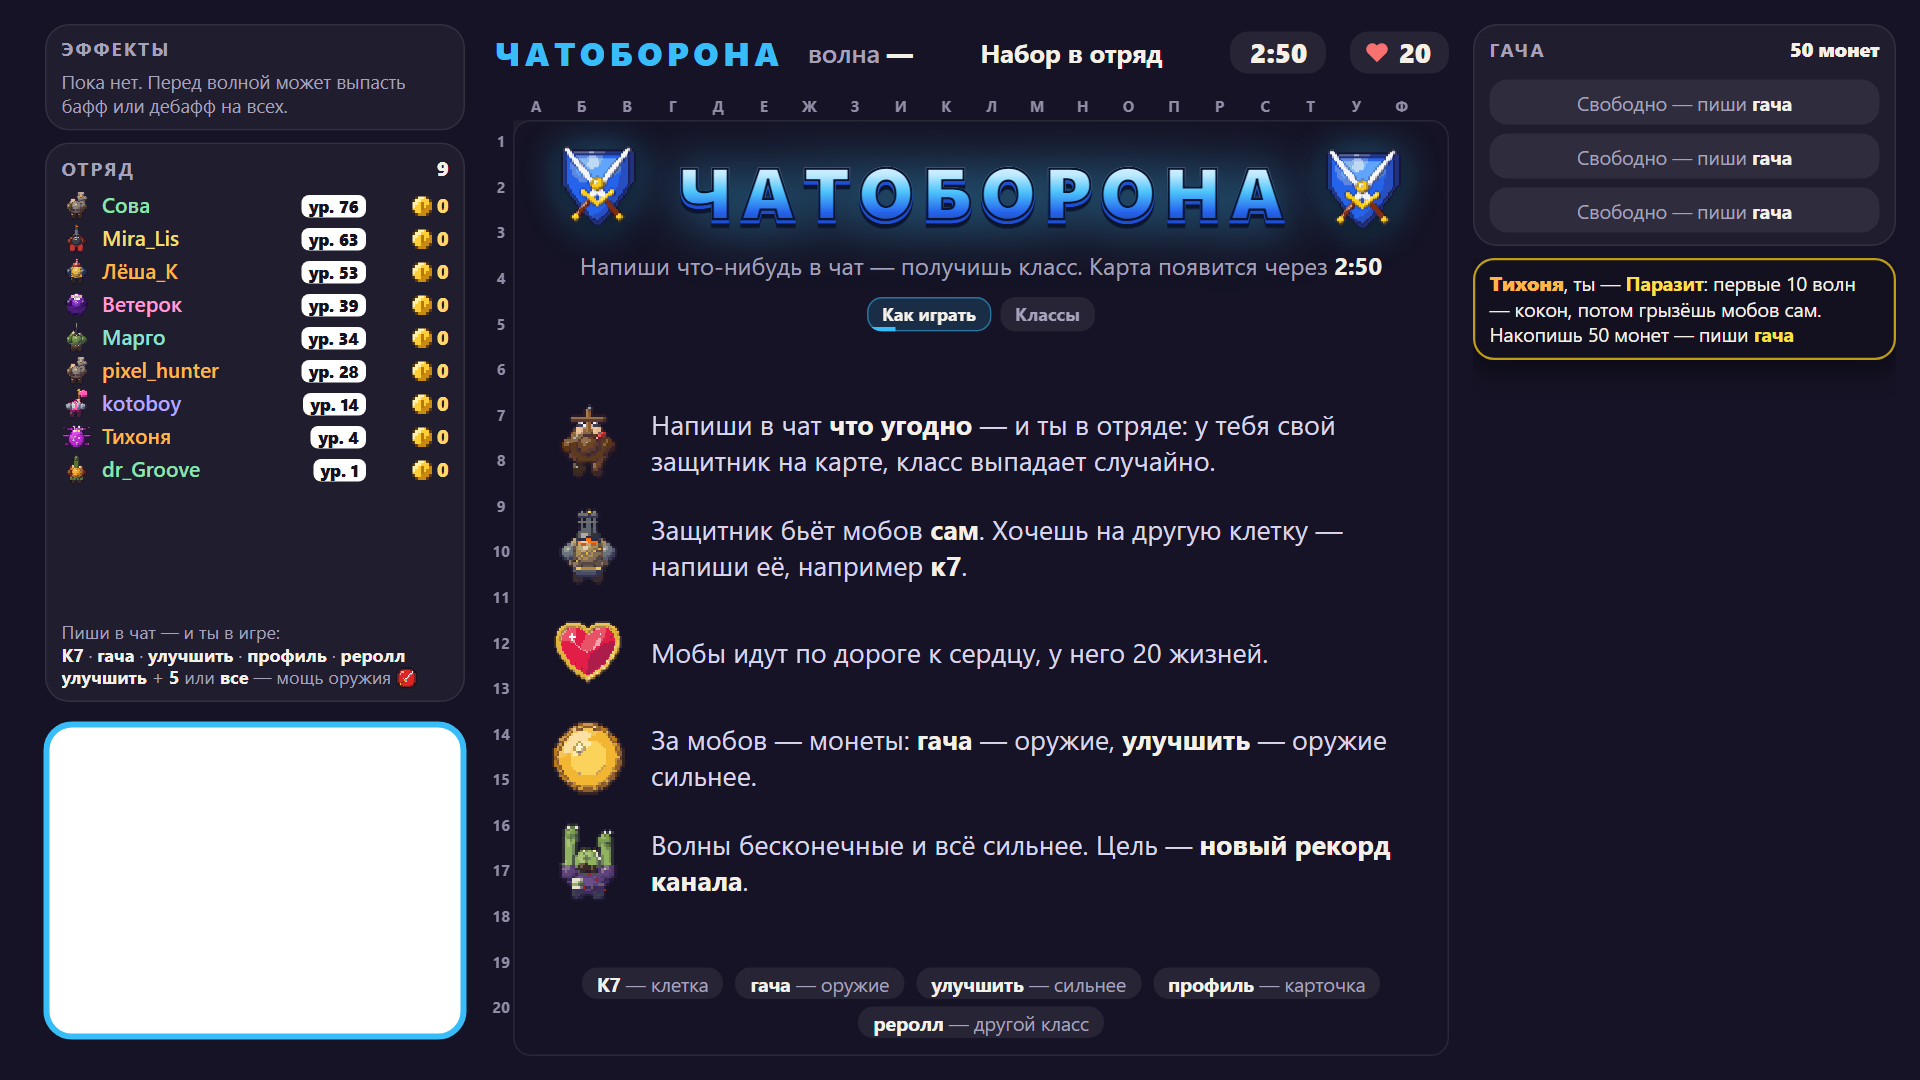
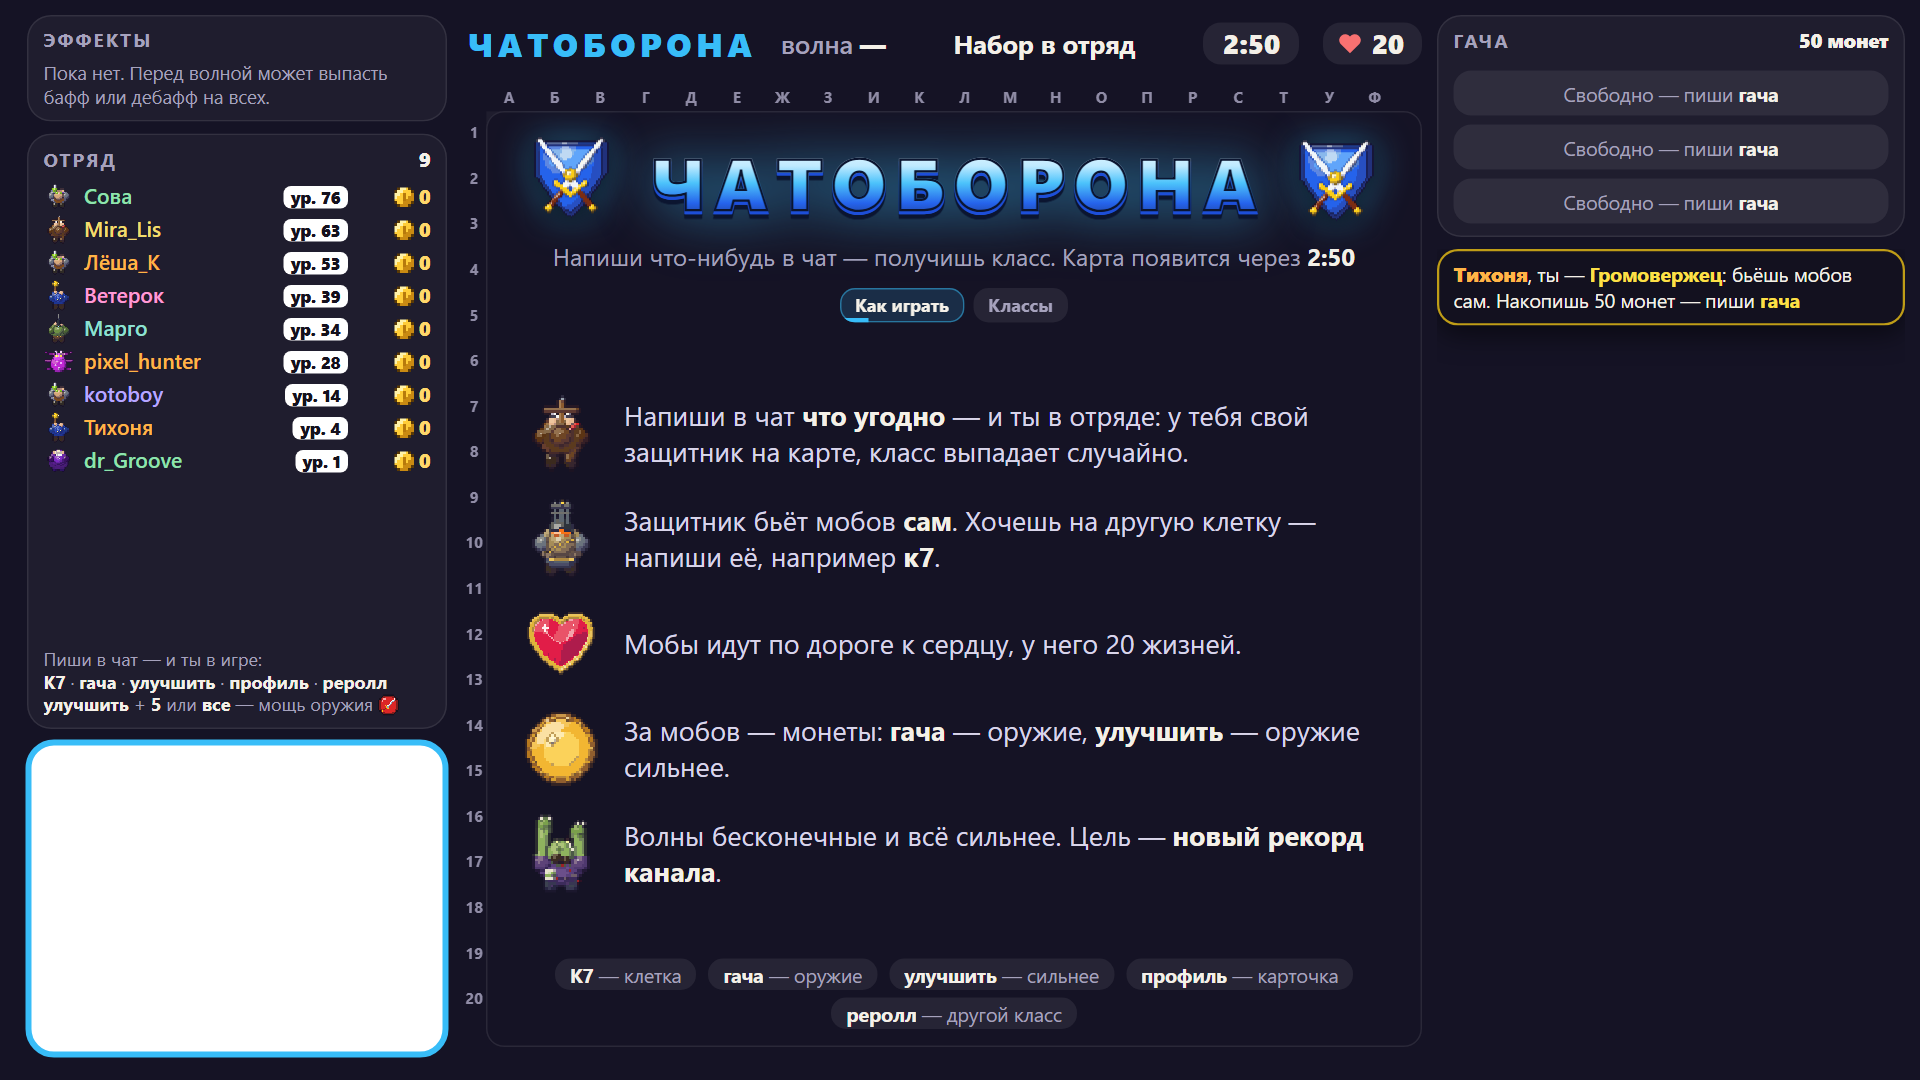
Оверлей: фон до краёв, окошко под вебку у края и одно для всех игр, меньше отступов

diff --git a/tests/js/pages.test.js b/tests/js/pages.test.js
@@ -44,6 +44,25 @@ const element = (w, id) => w.document.getElementById(id);
 const text = (w, id) => element(w, id).textContent;
 const overlay = (query = '') => open('overlay.html' + (query ? '?' + query : ''), (w) => w.chatoborona);
 const join = (game, name) => game.feed(name, 'привет', { login: name.toLowerCase() });
+const camAt = (w) => {
+  const stage = w.document.getElementById('stage').getBoundingClientRect();
+  const cam = w.document.querySelector('.cam').getBoundingClientRect();
+  return [cam.left - stage.left, cam.top - stage.top, cam.width, cam.height].map(Math.round);
+};
+
+test('страницы: окошко под вебку — там же, где в других играх; скрыта панель — углы рамки скруглены', async () => {
+  fresh();
+  const full = await overlay('embed=1');
+  await until(() => camAt(full.contentWindow)[2] > 0, 'окошко на экране');
+  eq(camAt(full.contentWindow), [18, 494, 280, 210]);
+  eq(full.contentWindow.getComputedStyle(element(full.contentWindow, 'card')).borderRadius, '0px');
+  full.remove();
+  const right = await overlay('embed=1&side=0');
+  await until(() => camAt(right.contentWindow)[2] > 0, 'окошко на экране');
+  eq(camAt(right.contentWindow), [18, 494, 280, 210]);
+  eq(right.contentWindow.getComputedStyle(element(right.contentWindow, 'card')).borderRadius, '30px');
+  right.remove();
+});
 
 test('страницы: пример в рамке — середина волны, гача, отряд и эффекты слева, чата нет', async () => {
   fresh();

diff --git a/site/css/overlay.css b/site/css/overlay.css
@@ -32,14 +32,14 @@ body {
 }
 
 .card {
-  position: absolute; inset: 0; z-index: 0; padding: 16px 16px 16px 30px;
-  display: grid; gap: 14px 16px;
-  grid-template: "left main side" minmax(0, 1fr) "cam main side" 222px / 280px 640px minmax(0, 1fr);
+  position: absolute; inset: 0; z-index: 0; padding: 10px 10px 16px 18px;
+  display: grid; gap: 8px 10px;
+  grid-template: "left main side" minmax(0, 1fr) "cam main side" 210px / 280px 640px minmax(0, 1fr);
   overflow: hidden;
 }
 
 .cam {
-  grid-area: cam; position: relative; z-index: -1; margin-bottom: 12px; border-radius: 18px;
+  grid-area: cam; position: relative; z-index: -1; border-radius: 18px;
   box-shadow: 0 0 0 2000px var(--card);
 }
 .cam::after {
@@ -52,12 +52,13 @@ body {
 
 .nochat .cam, .nochat .left { display: none; }
 .nochat .card {
-  left: 310px; padding-left: 16px; grid-template: "main side" minmax(0, 1fr) / 640px minmax(0, 1fr);
+  left: 298px; padding-left: 10px; grid-template: "main side" minmax(0, 1fr) / 640px minmax(0, 1fr);
 }
 
 .noside .side { display: none; }
-.noside .card { right: 298px; grid-template: "left main" minmax(0, 1fr) "cam main" 222px / 280px 640px; }
+.noside .card { right: 322px; grid-template: "left main" minmax(0, 1fr) "cam main" 210px / 280px 640px; }
 .nochat.noside .card { grid-template: "main" minmax(0, 1fr) / 640px; }
+.nochat .card, .noside .card { border-radius: 30px; }
 
 .nobg { --empty: rgba(21, 19, 37, .62); --muted: #cfcbe2; }
 .nobg .card { background: none; }
